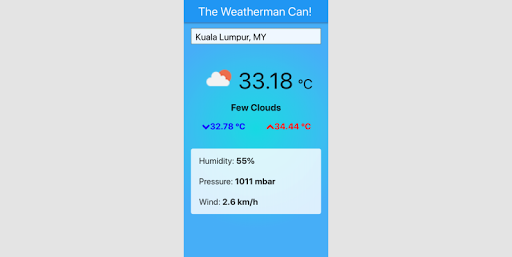
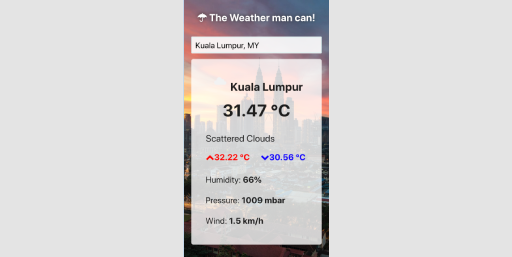
update project images

Changed region(s): [[0.3438, 0.0, 0.6562, 1.0]]

diff --git a/src/components/ProjectSection/Project.js b/src/components/ProjectSection/Project.js
@@ -10,6 +10,7 @@ import project_img_5 from './../../assets/project_img_5.png';
 import project_img_6 from './../../assets/project_img_6.png';
 import project_img_7 from './../../assets/project_img_7.png';
 import project_img_8 from './../../assets/project_img_8.png';
+import project_img_9 from './../../assets/project_img_9.png';
 
   function getTools(array) {
     return <ul>
@@ -20,22 +21,23 @@ import project_img_8 from './../../assets/project_img_8.png';
 }
 function getImage(id){
     switch(id) {
-        case 8:
-            return project_img_1;
-        case 9:
-            return project_img_2;
-        case 7:
-            return project_img_3;
-        case 10:
-            return project_img_4;
-        case 11:
-            return project_img_5;
-        case 3:
-            return noScreenshot;
+
         case 1:
             return project_img_6;
         case 2:
             return project_img_3;
+        case 3:
+            return project_img_9;
+        case 7:
+            return project_img_3;
+        case 8:
+            return project_img_1;
+        case 9:
+            return project_img_2;
+        case 10:
+            return project_img_4;
+        case 11:
+            return project_img_5;
         case 12:
             return project_img_7;
         case 13:
